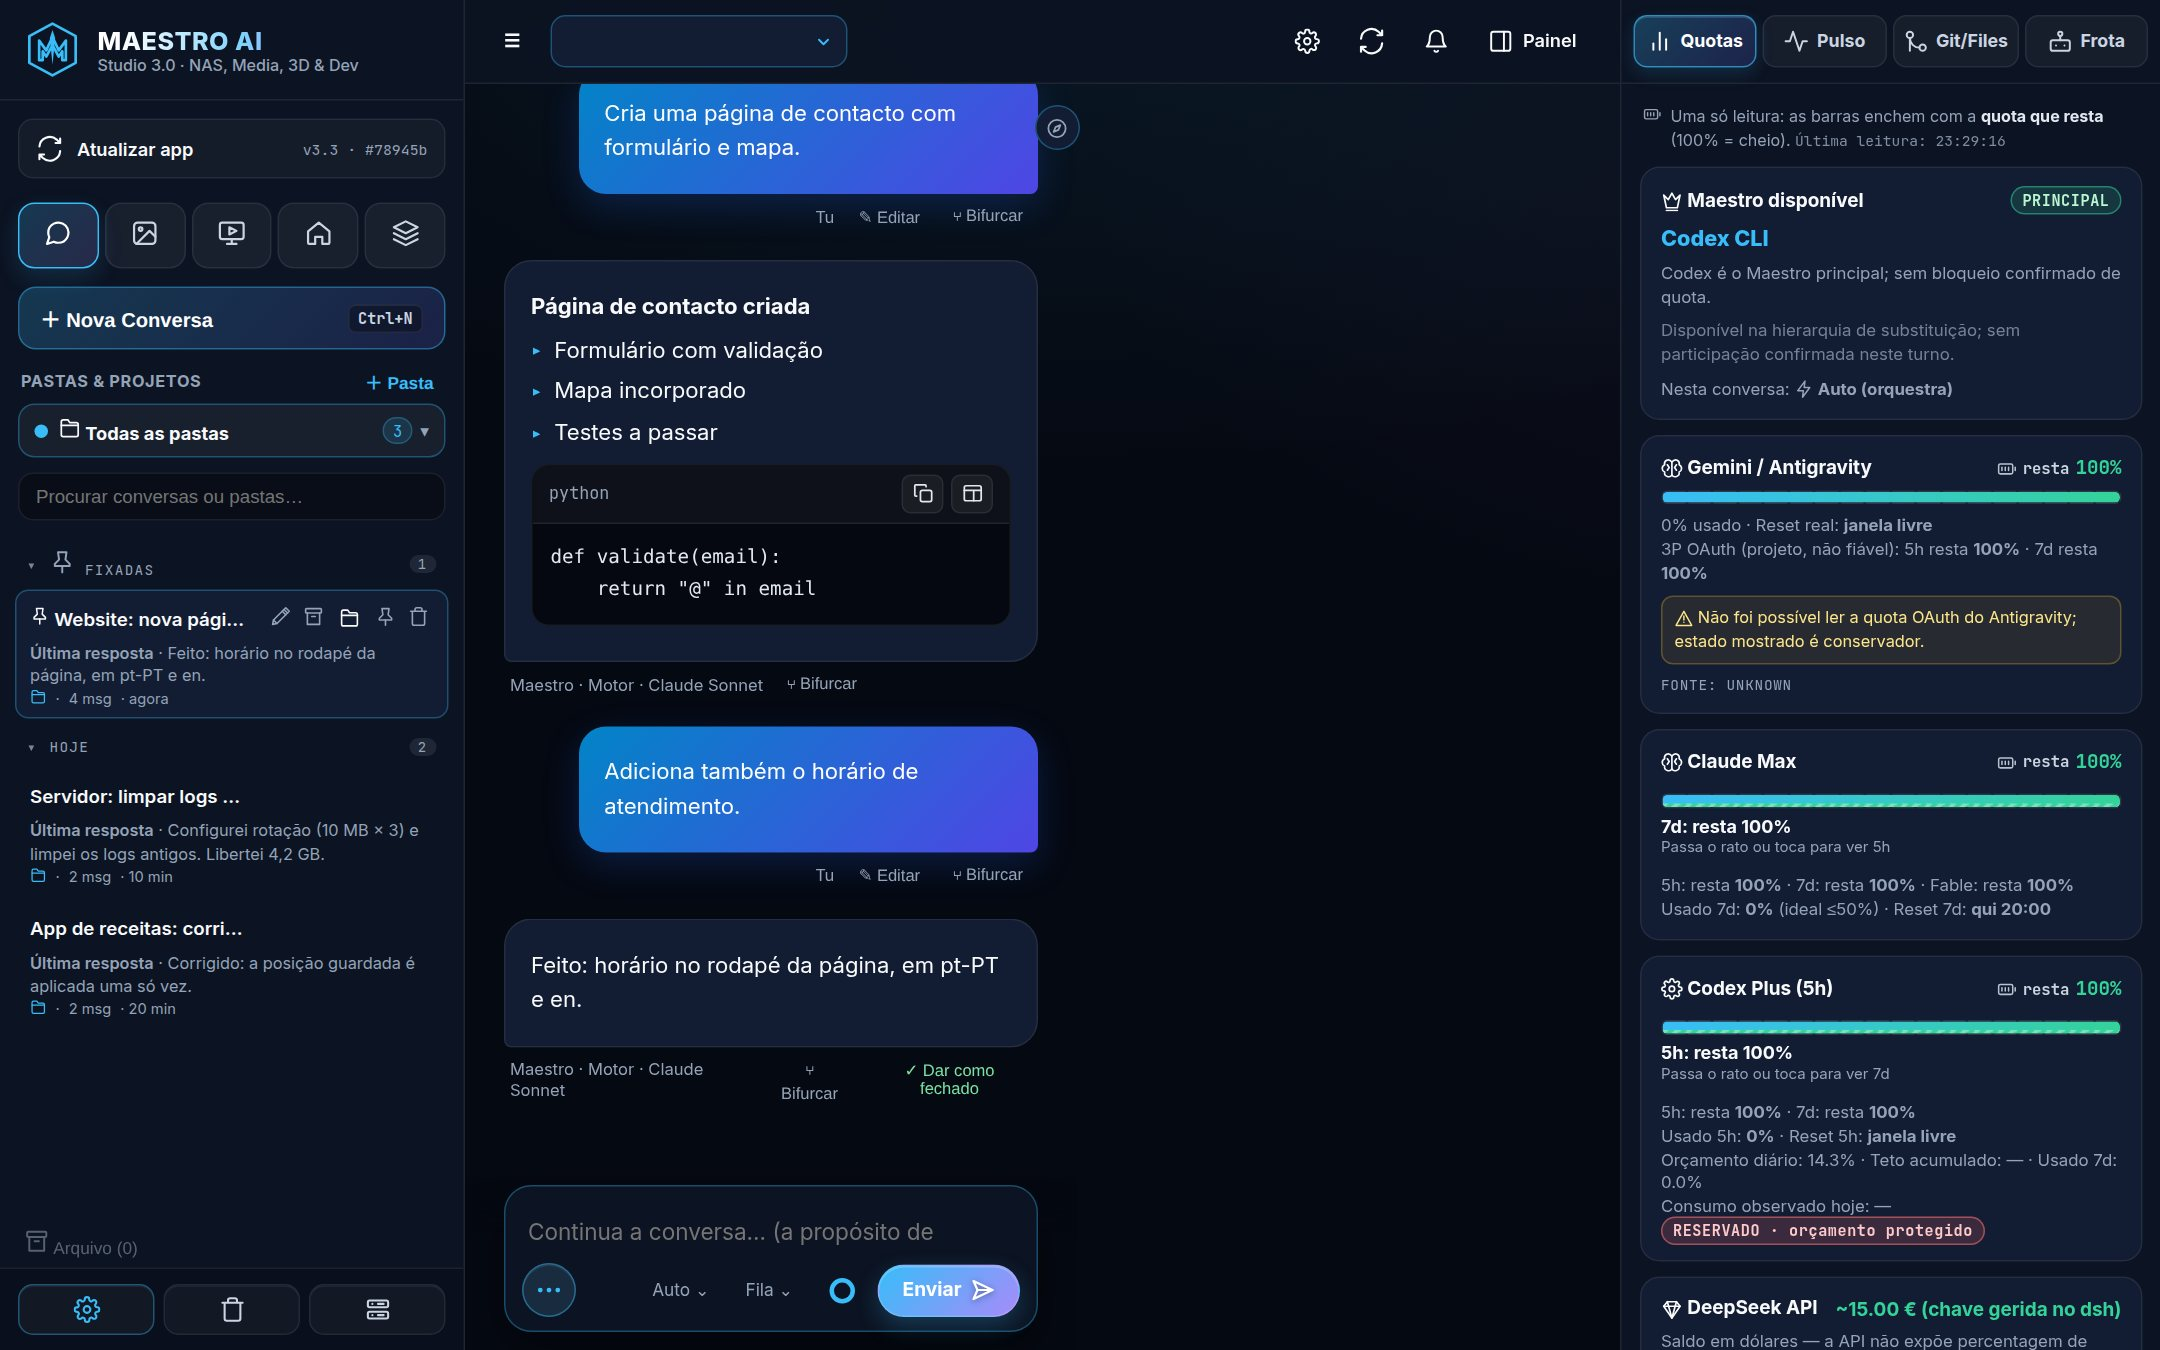
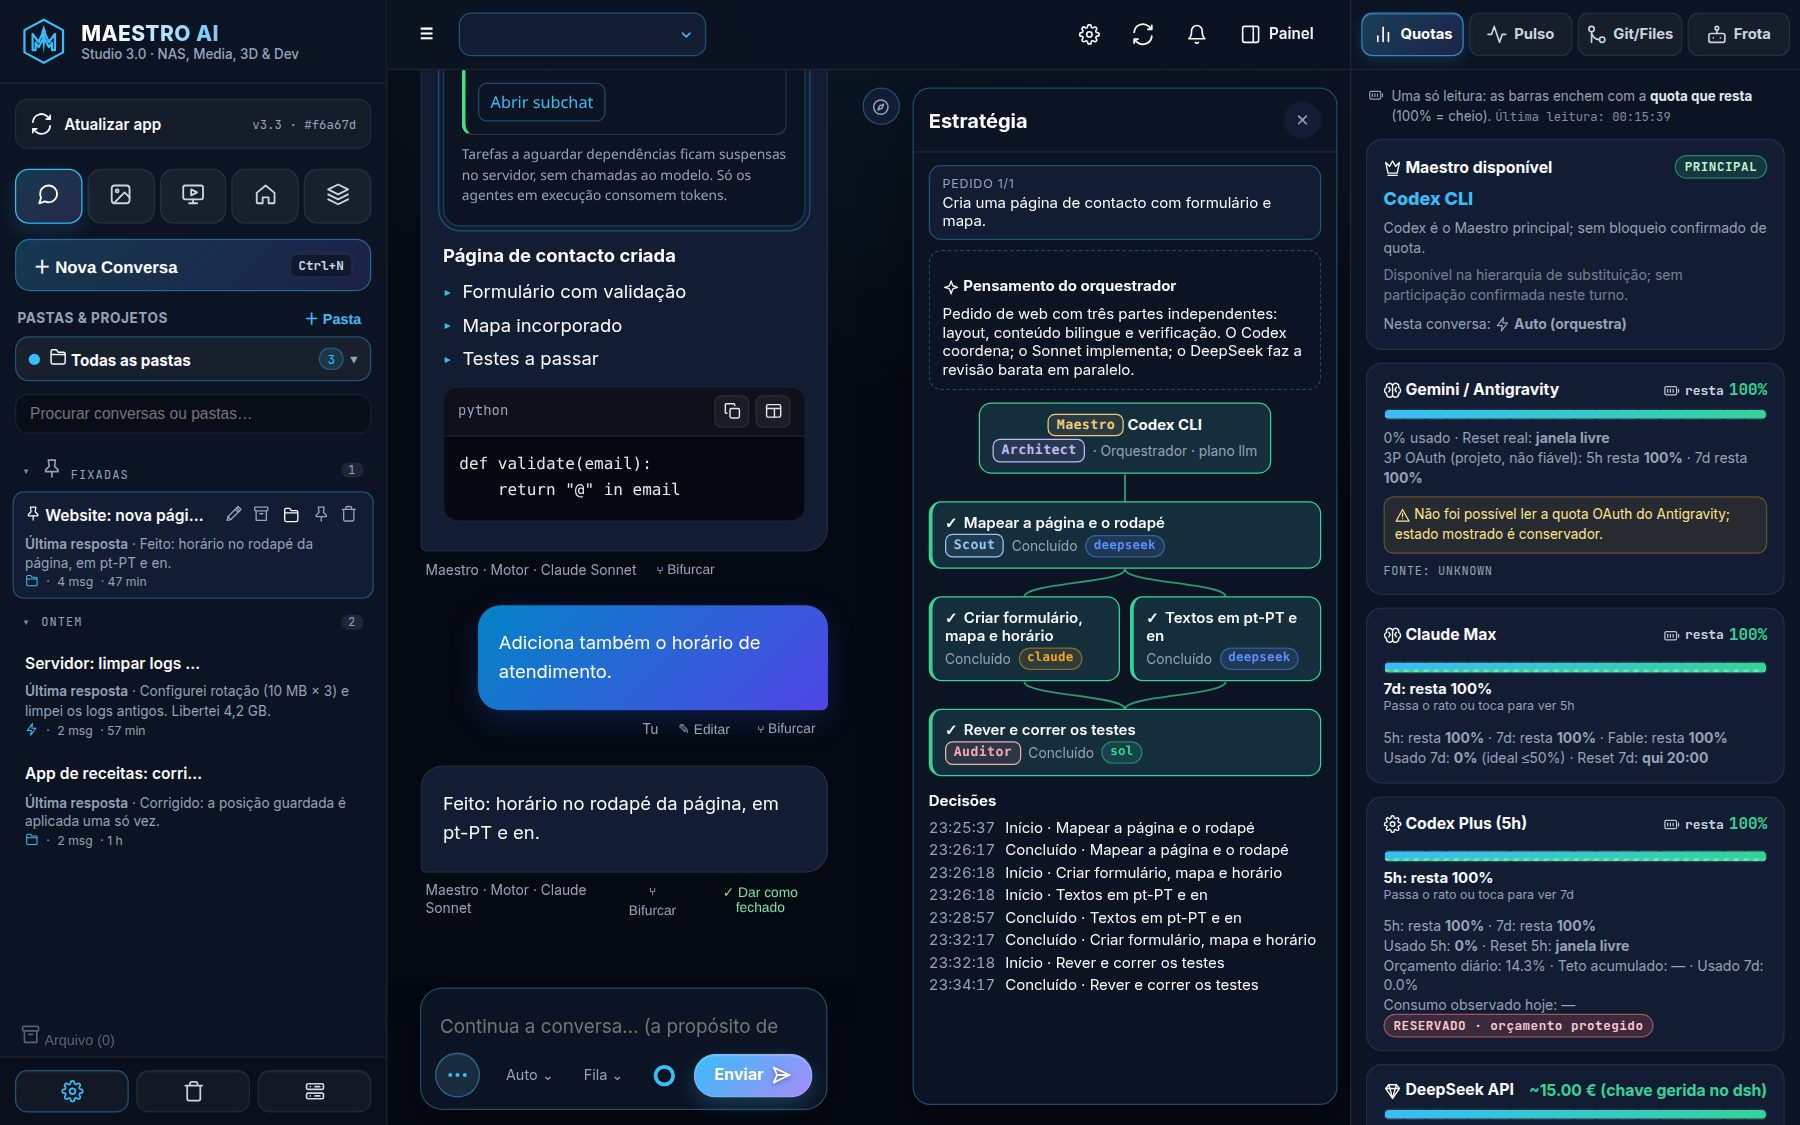
docs: themes gallery and Strategy panel screenshots, richer README

diff --git a/README.pt-PT.md b/README.pt-PT.md
@@ -12,16 +12,38 @@
 - **Fluxos multiagente.** Pedidos complexos tornam-se um plano JSON (scout → especialista → revisão), executado como DAG com tarefas de leitura em paralelo. Planos e resultados ficam guardados e podem ser retomados.
 - **Orçamentos de quota.** As quotas semanais dividem-se em orçamentos diários; o DeepSeek tem um orçamento em euros por ciclo, com *yellowline* e *redline* para uso extra justificado.
 - **Scouts só de leitura.** Modo restrito da API DeepSeek que apenas lista pastas, lê excertos e pesquisa texto dentro do projeto.
-- **Estúdio web.** Conversas, pastas, fila, painéis de quotas e frota, temas, interface PT/EN.
+- **Painel Estratégia.** Acompanha o pedido que estás a ler e mostra o raciocínio do orquestrador, o grafo de agentes, o estado de cada nó e a linha temporal das decisões.
+- **Estúdio web.** Conversas e pastas com arquivo, fila de pedidos, painéis de quotas e frota em direto, seis mundos visuais, interface PT/EN, PWA instalável.
+- **Respostas interativas.** As respostas podem trazer HTML inline, tabelas, gráficos e cartões de perguntas e respostas por plataforma.
 - **Integrações opcionais** (multimédia no NAS, Home Assistant, impressoras 3D) em `maestro_features.py`, configuradas por ti.
 
 Os detalhes do desenho estão em [ORCHESTRATION.md](ORCHESTRATION.md) e o modelo de custos em [DEEPSEEK_PRICING.md](DEEPSEEK_PRICING.md).
 
 ## Capturas de ecrã
 
-<p align="center"><img src="docs/screenshots/maestro-desktop.jpg" width="620" alt="Maestro AI desktop"/> <img src="docs/screenshots/maestro-tablet.jpg" width="190" alt="Maestro AI tablet"/> <img src="docs/screenshots/maestro-mobile.jpg" width="130" alt="Maestro AI phone"/></p>
+<p align="center"><img src="docs/screenshots/maestro-desktop.jpg" width="900" alt="Maestro AI: conversas à esquerda, painel Estratégia junto ao pedido, quotas em direto à direita"/></p>
 
-*Computador (browser ou janela da app Windows) · tablet (PWA) · telemóvel (PWA). Espaço de demonstração com conversas fictícias.*
+*Computador: lista de conversas, conversa, **painel Estratégia** (o raciocínio do orquestrador e o grafo de agentes do pedido que estás a ler) e barras de quota em direto.*
+
+<p align="center"><img src="docs/screenshots/maestro-tablet.jpg" width="260" alt="Tablet (PWA)"/> &nbsp; <img src="docs/screenshots/maestro-mobile.jpg" width="170" alt="Phone (PWA)"/></p>
+
+*Tablet e telemóvel usam a mesma interface como PWA instalável; a app Windows é a mesma UI numa janela própria.*
+
+### Temas («mundos»)
+
+Cada mundo muda cor, tipografia e efeitos de toda a app. Escolhe-se no menu do logótipo.
+
+<table><tr>
+<td align="center"><img src="docs/screenshots/theme-matrix.jpg" width="300" alt="Matrix"/><br/><sub>Matrix</sub></td>
+<td align="center"><img src="docs/screenshots/theme-scifi.jpg" width="300" alt="Sci-Fi HUD"/><br/><sub>Sci-Fi HUD</sub></td>
+<td align="center"><img src="docs/screenshots/theme-cyberpunk.jpg" width="300" alt="Cyberpunk"/><br/><sub>Cyberpunk</sub></td>
+</tr><tr>
+<td align="center"><img src="docs/screenshots/theme-hesperia.jpg" width="300" alt="Hesperia"/><br/><sub>Hesperia</sub></td>
+<td align="center"><img src="docs/screenshots/theme-dune.jpg" width="300" alt="Dune · Arrakis"/><br/><sub>Dune · Arrakis</sub></td>
+<td align="center"><img src="docs/screenshots/theme-dungen.jpg" width="300" alt="Hubert Dungen"/><br/><sub>Hubert Dungen</sub></td>
+</tr></table>
+
+*Todas as capturas usam um espaço de demonstração com conversas fictícias; as barras de quota mostram valores de demonstração.*
 
 ## Requisitos
 

diff --git a/README.md b/README.md
@@ -12,16 +12,38 @@
 - **Multi-agent workflows.** Complex requests become a JSON plan (scout → specialist → review), executed as a DAG with parallel read-only tasks. Plans and results are persisted and resumable.
 - **Quota budgets.** Weekly quotas are split into daily budgets; DeepSeek has a per-cycle money budget with yellow/red lines for justified extra use.
 - **Read-only scouts.** A restricted DeepSeek API mode that can only list folders, read excerpts and grep inside the project.
-- **Web studio.** Chats, folders, queue, quota and fleet panels, themes, PT/EN interface.
+- **Strategy panel.** Follows the request you are reading and shows the orchestrator's reasoning, the agent graph, per-node status and a decision timeline.
+- **Web studio.** Chats and folders with archive, a request queue, live quota and fleet panels, six visual worlds, PT/EN interface, installable PWA.
+- **Interactive answers.** Replies can render inline HTML, tables, charts, and step-by-step Q&A cards per platform.
 - **Optional integrations** (NAS media, Home Assistant, 3D printers) live in `maestro_features.py` and are configured by you.
 
 See [ORCHESTRATION.md](ORCHESTRATION.md) (in Portuguese) for the design details and [DEEPSEEK_PRICING.md](DEEPSEEK_PRICING.md) for the cost model.
 
 ## Screenshots
 
-<p align="center"><img src="docs/screenshots/maestro-desktop.jpg" width="620" alt="Maestro AI desktop"/> <img src="docs/screenshots/maestro-tablet.jpg" width="190" alt="Maestro AI tablet"/> <img src="docs/screenshots/maestro-mobile.jpg" width="130" alt="Maestro AI phone"/></p>
+<p align="center"><img src="docs/screenshots/maestro-desktop.jpg" width="900" alt="Maestro AI: chats on the left, the Strategy panel beside the request, live quotas on the right"/></p>
 
-*Desktop (browser or Windows app window) · tablet (PWA) · phone (PWA). Demo workspace with fictional conversations.*
+*Desktop: chat list, conversation, the **Strategy panel** (the orchestrator's reasoning and the agent graph of the request you are reading) and live quota bars.*
+
+<p align="center"><img src="docs/screenshots/maestro-tablet.jpg" width="260" alt="Tablet (PWA)"/> &nbsp; <img src="docs/screenshots/maestro-mobile.jpg" width="170" alt="Phone (PWA)"/></p>
+
+*Tablet and phone run the same interface as an installable PWA; the Windows app is the same UI in its own window.*
+
+### Themes ("worlds")
+
+Each world re-skins colour, type and effects of the whole app. Pick one from the logo menu.
+
+<table><tr>
+<td align="center"><img src="docs/screenshots/theme-matrix.jpg" width="300" alt="Matrix"/><br/><sub>Matrix</sub></td>
+<td align="center"><img src="docs/screenshots/theme-scifi.jpg" width="300" alt="Sci-Fi HUD"/><br/><sub>Sci-Fi HUD</sub></td>
+<td align="center"><img src="docs/screenshots/theme-cyberpunk.jpg" width="300" alt="Cyberpunk"/><br/><sub>Cyberpunk</sub></td>
+</tr><tr>
+<td align="center"><img src="docs/screenshots/theme-hesperia.jpg" width="300" alt="Hesperia"/><br/><sub>Hesperia</sub></td>
+<td align="center"><img src="docs/screenshots/theme-dune.jpg" width="300" alt="Dune · Arrakis"/><br/><sub>Dune · Arrakis</sub></td>
+<td align="center"><img src="docs/screenshots/theme-dungen.jpg" width="300" alt="Hubert Dungen"/><br/><sub>Hubert Dungen</sub></td>
+</tr></table>
+
+*All captures use a demo workspace with fictional conversations; the quota bars show demo values.*
 
 ## Requirements
 
